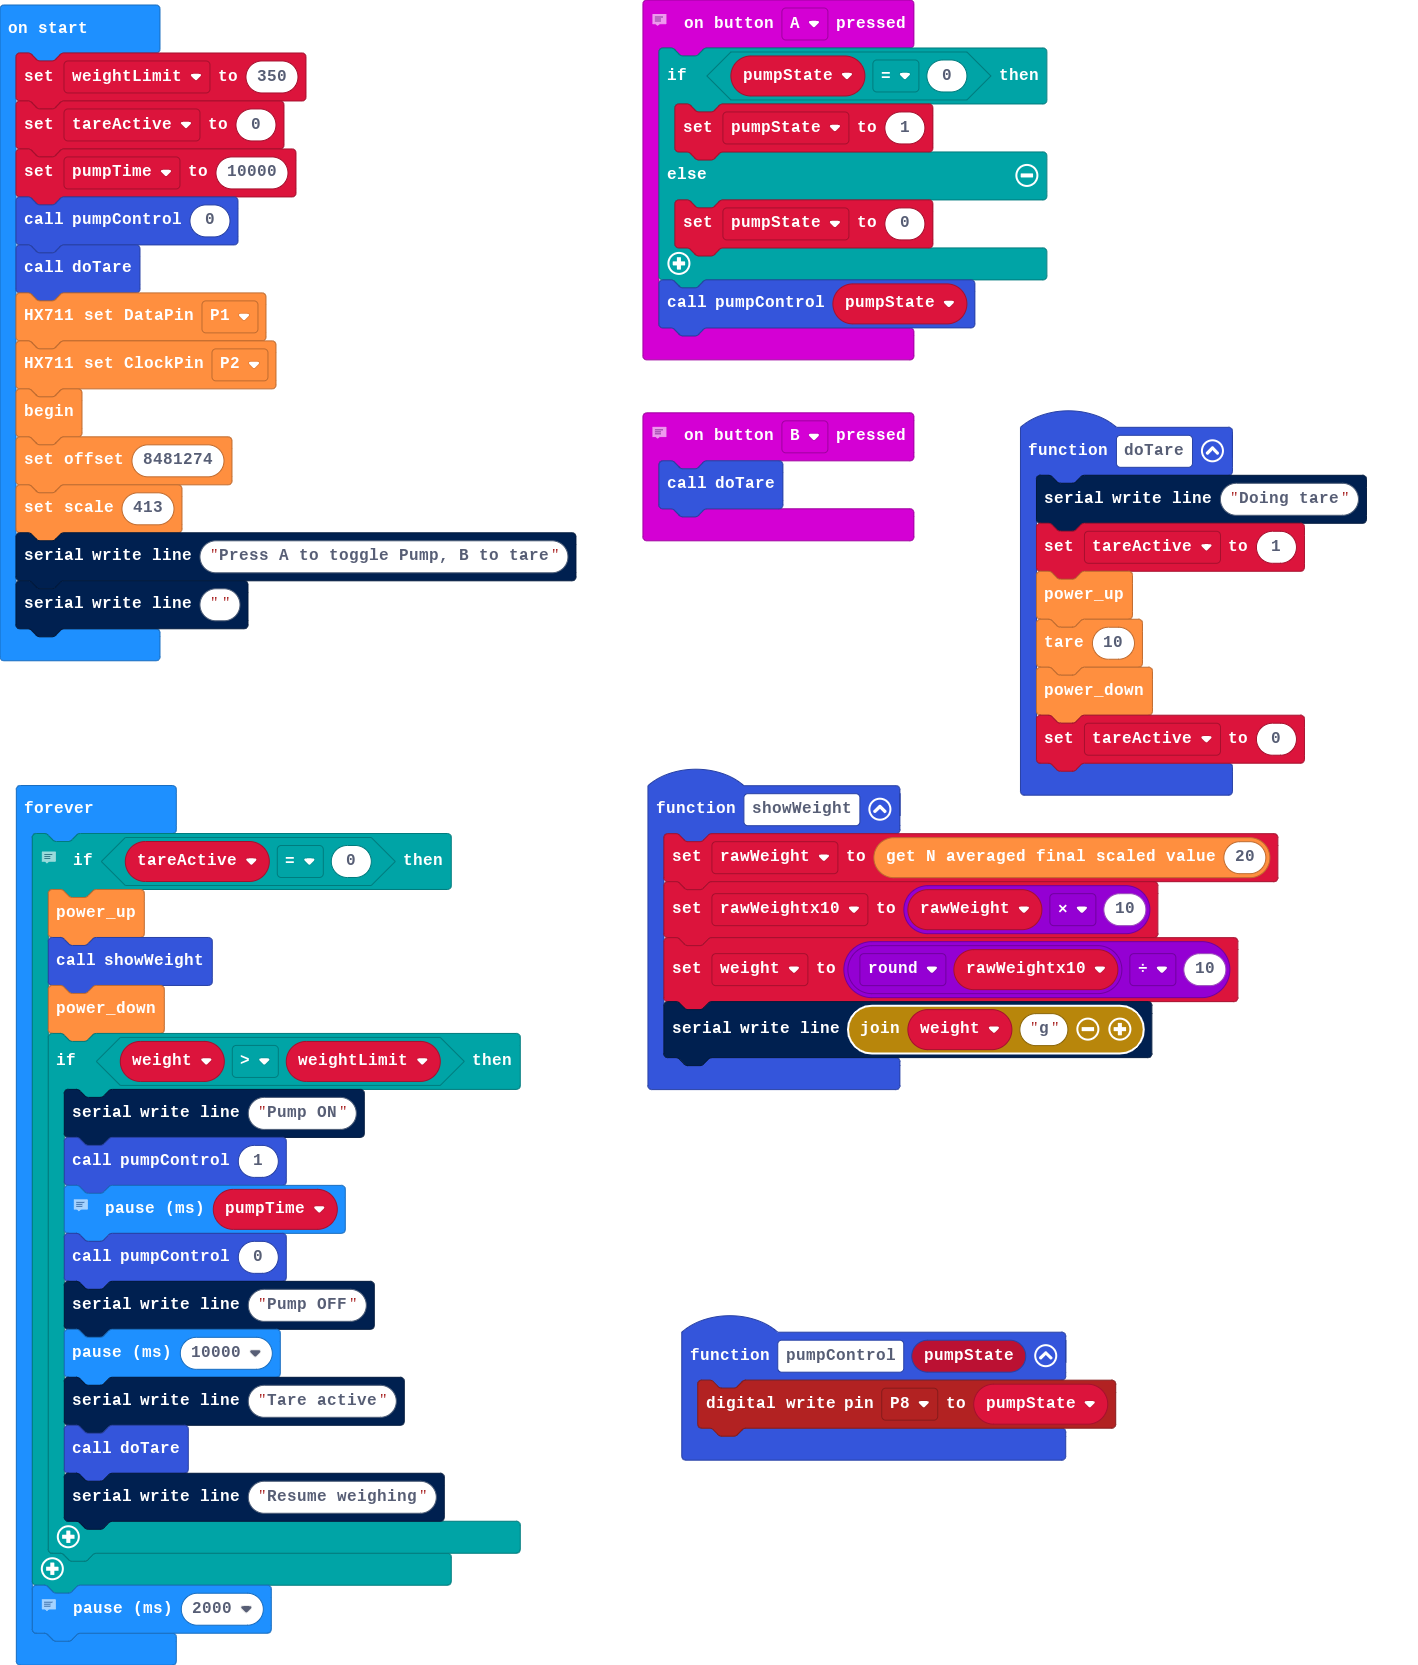
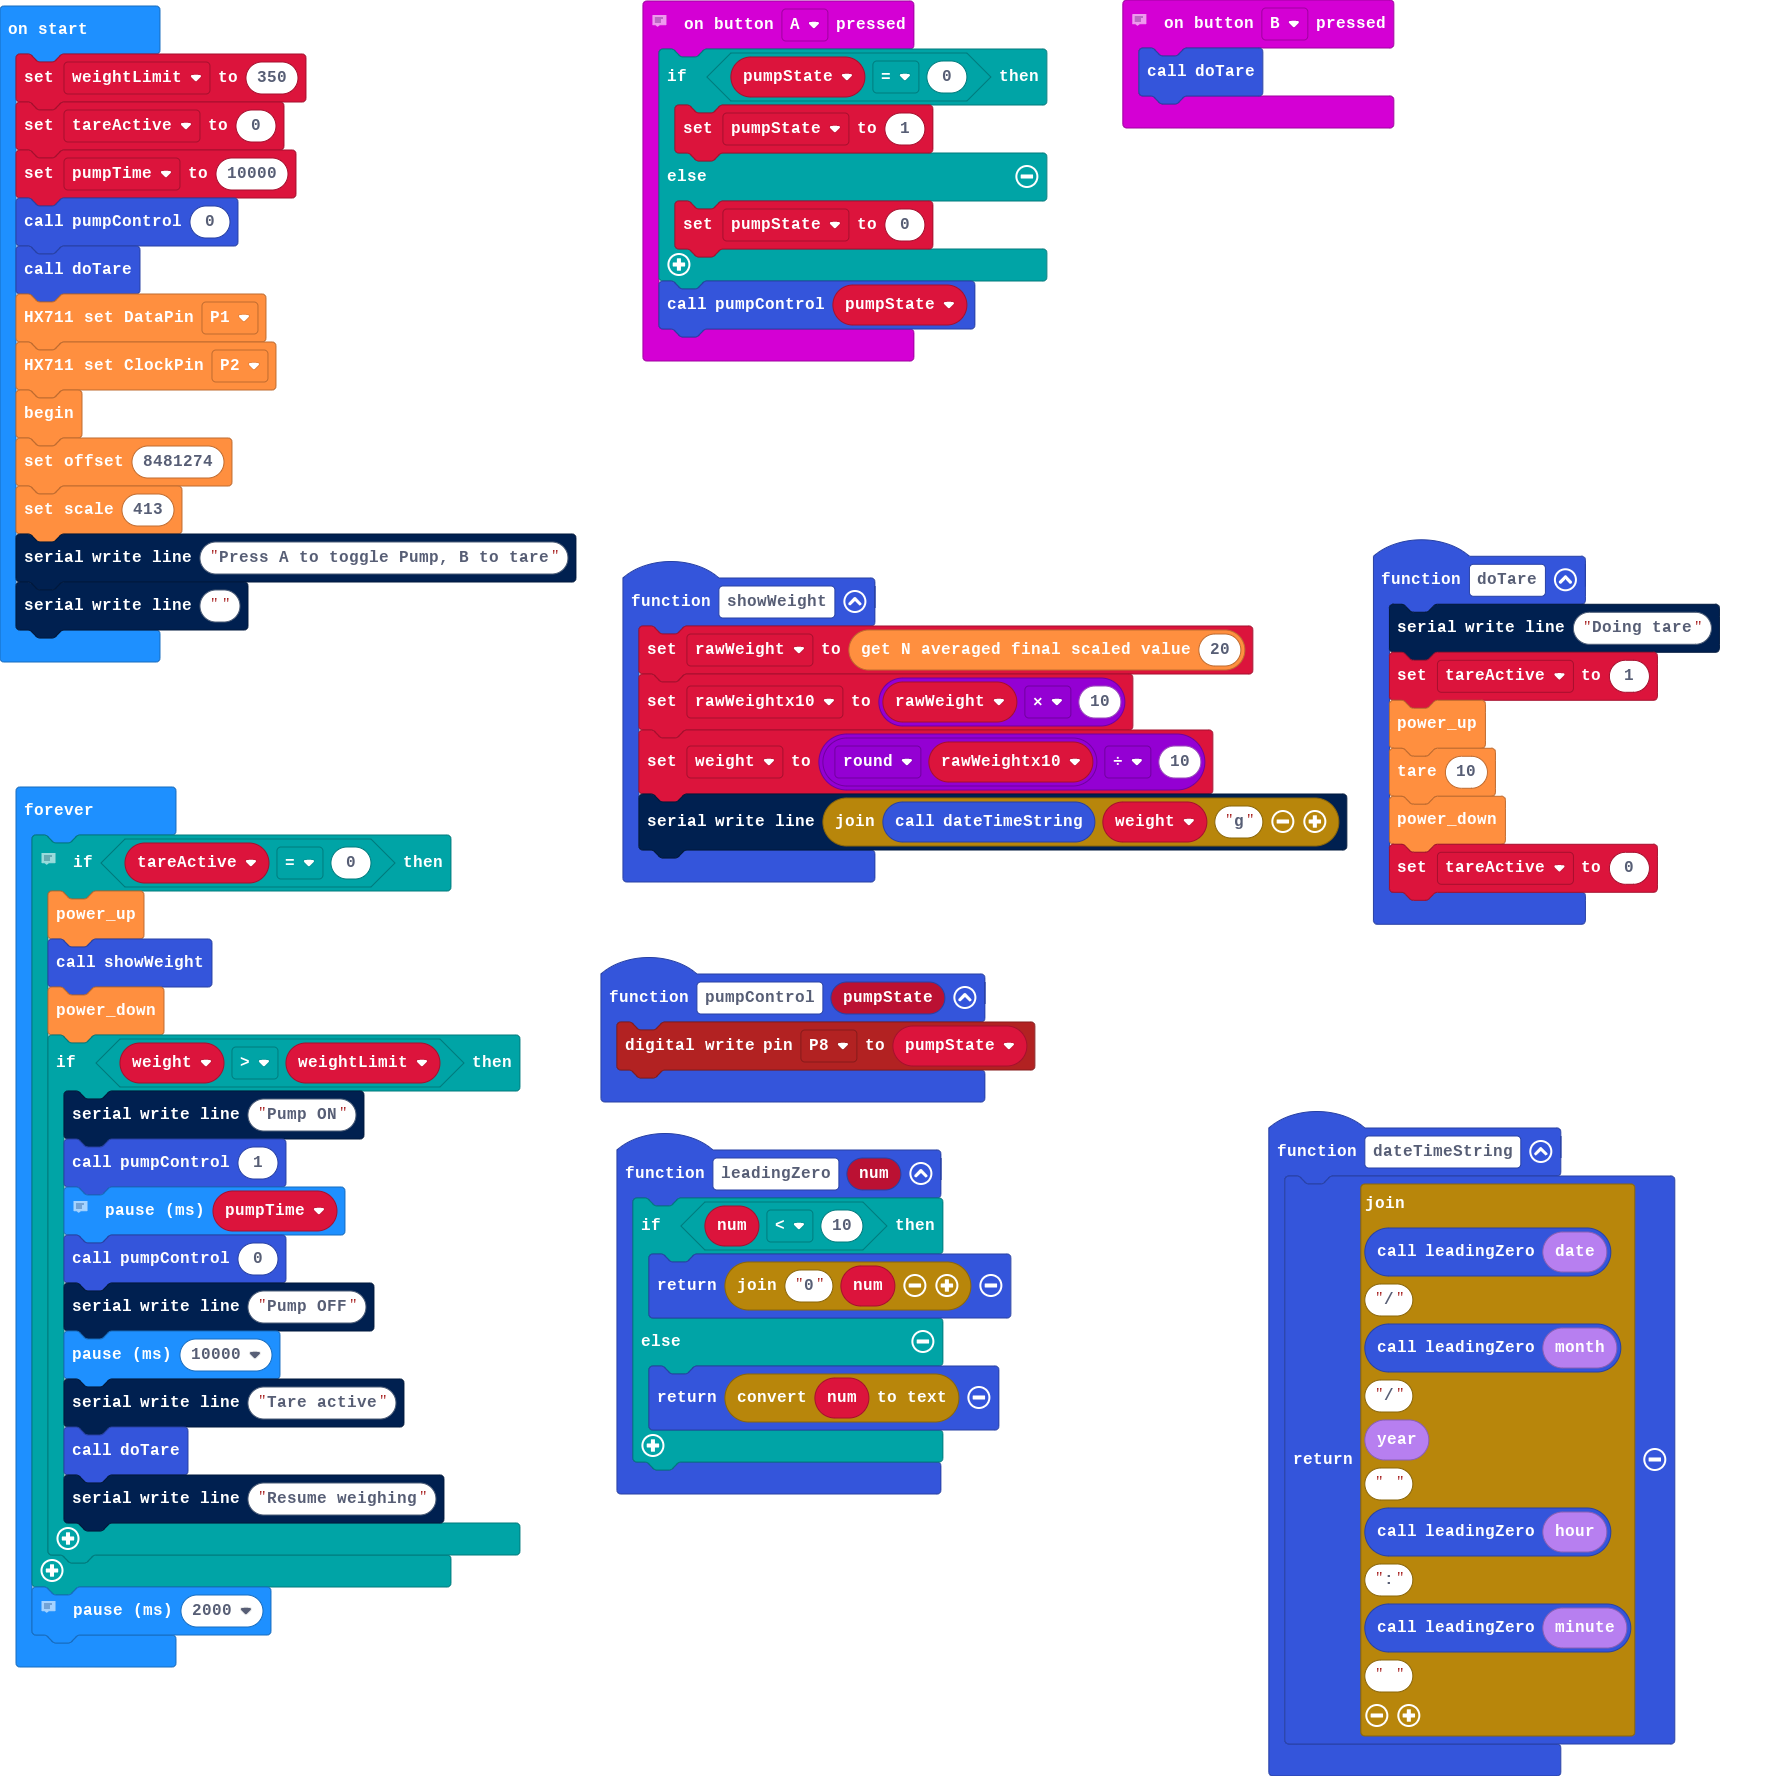
added RTC code

diff --git a/main.ts b/main.ts
@@ -10,10 +10,17 @@ function showWeight () {
     rawWeight = HX711.get_units(20)
     rawWeightx10 = rawWeight * 10
     weight = Math.round(rawWeightx10) / 10
-    serial.writeLine("" + weight + "g")
+    serial.writeLine("" + dateTimeString() + weight + "g")
 }
 function pumpControl (pumpState: number) {
     pins.digitalWritePin(DigitalPin.P8, pumpState)
+}
+function leadingZero (num: number) {
+    if (num < 10) {
+        return "0" + num
+    } else {
+        return convertToText(num)
+    }
 }
 // Button A => Pump toggle
 input.onButtonPressed(Button.A, function () {
@@ -24,6 +31,9 @@ input.onButtonPressed(Button.A, function () {
     }
     pumpControl(pumpState)
 })
+function dateTimeString () {
+    return "" + leadingZero(DS3231.date()) + "/" + leadingZero(DS3231.month()) + "/" + DS3231.year() + " " + leadingZero(DS3231.hour()) + ":" + leadingZero(DS3231.minute()) + " "
+}
 // Button B => Tare
 input.onButtonPressed(Button.B, function () {
     doTare()
